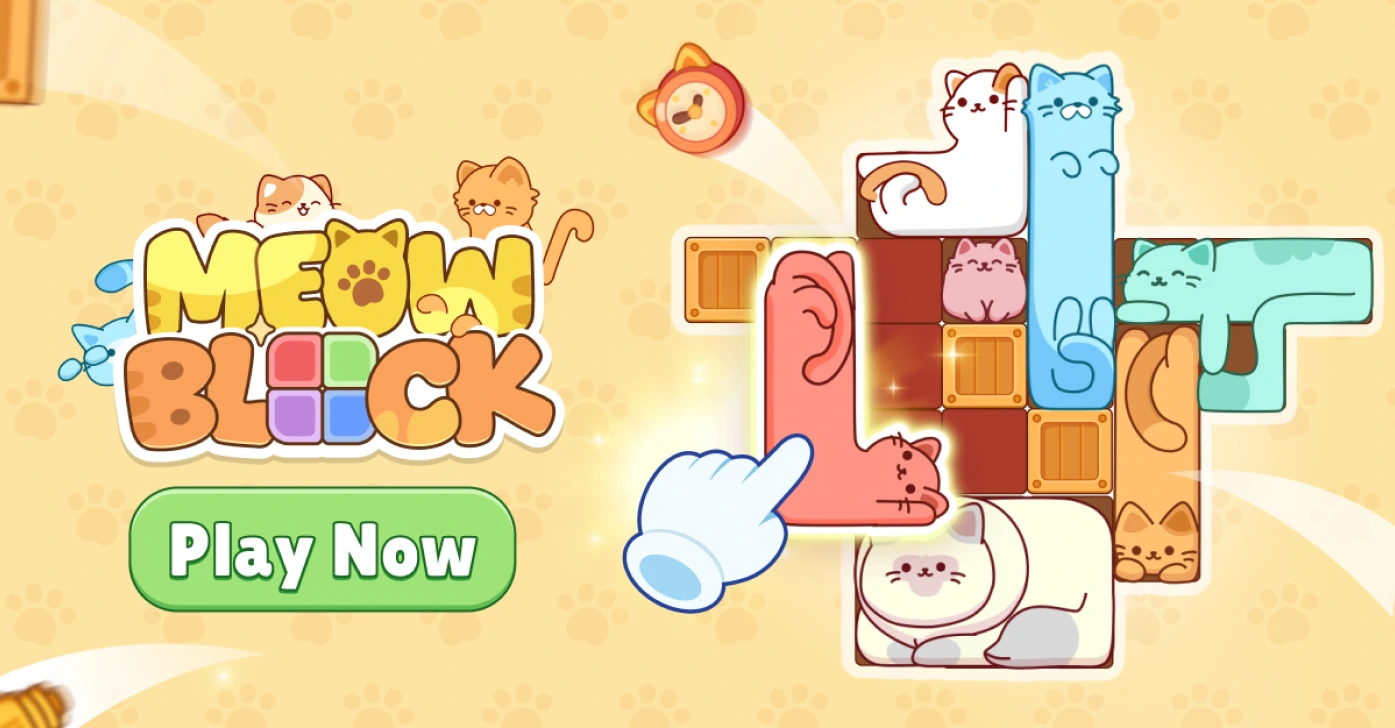
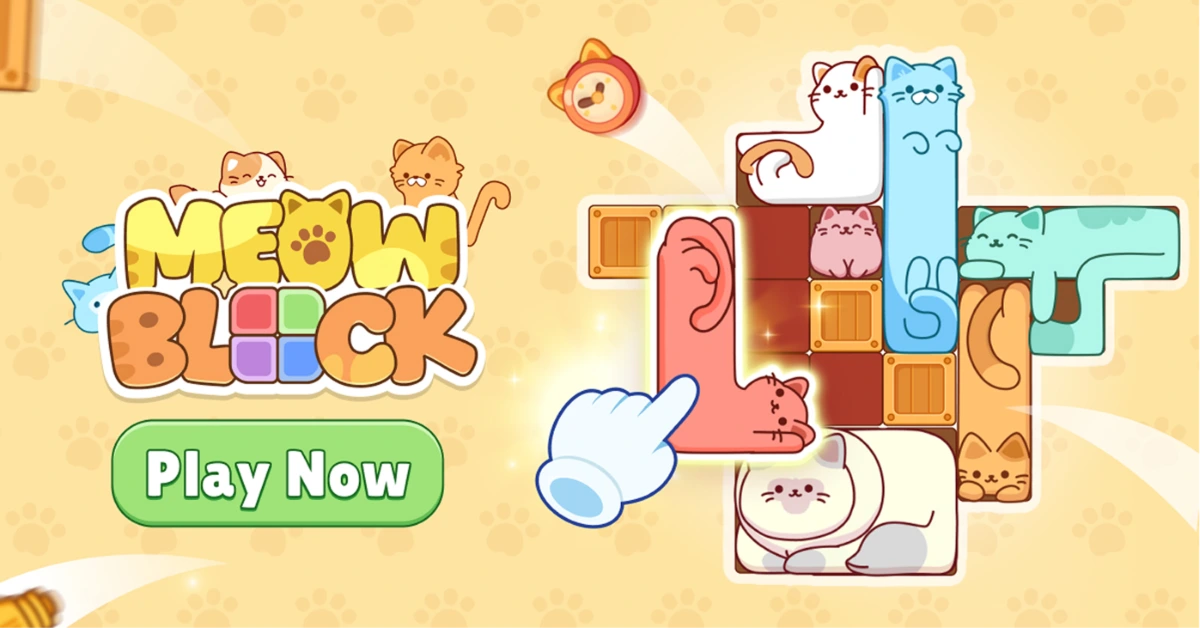
Oil Defense slides, two picture books, Spine feedback animations
- Re-cut Oil Defense from Figma into 14 whole slides
- Show the Meow Block Google banner at its native 1200x628
- Add Choo Choo Train Adventure and Where Is the Best Pho? with book mockups
- Play Icon Match combo feedback animations live with Spine Player 4.3

diff --git a/app.js b/app.js
@@ -38,7 +38,7 @@
   function render(box, list, lead) {
     box.replaceChildren(...list.map((p, i) => el('a', { className: lead && !i ? 'tile lead-tile' : 'tile', href: '#' + p.id },
       el('span', { className: 'shot' },
-        el('img', { src: `${A}covers/${p.id}.webp?v=16`, alt: '', loading: 'lazy' }),
+        el('img', { src: `${A}covers/${p.id}.webp?v=20`, alt: '', loading: 'lazy' }),
         ...(p.award ? [el('span', { className: 'award', textContent: p.award })] : [])),
       el('span', { className: 'cap' },
         el('strong', {}, p.title + '\u00a0', el('i', { ariaHidden: 'true', innerHTML: '<svg viewBox="0 0 12 12" width=".62em" height=".62em"><path d="M3 9 9 3M4 3h5v5" fill="none" stroke="currentColor" stroke-width="2" stroke-linecap="round" stroke-linejoin="round"/></svg>' })), el('em', { textContent: p.year }),
@@ -72,8 +72,19 @@
   const vo = 'IntersectionObserver' in window && new IntersectionObserver(es => es.forEach(e => {
     if (e.isIntersecting) e.target.play().catch(() => {}); else e.target.pause();
   }), { rootMargin: '150px 0px' });
+  // Spine animations play live in the official Spine web player, loaded only when a project has one
+  let spineLib;
+  const spinePlayers = [];
+  const loadSpine = () => spineLib || (spineLib = new Promise((ok, no) => {
+    const base = 'https://cdn.jsdelivr.net/npm/@esotericsoftware/spine-player@4.3.12/dist/';
+    document.head.append(el('link', { rel: 'stylesheet', href: base + 'spine-player.css' }));
+    const s = el('script', { src: base + 'iife/spine-player.min.js' });
+    s.onload = () => ok(window.spine); s.onerror = () => { spineLib = null; no(); };
+    document.head.append(s);
+  }));
   let cur = -1, back = 0;
   function show() {
+    spinePlayers.splice(0).forEach(x => { try { x.dispose(); } catch (e) {} }); // free each WebGL canvas
     cur = all.findIndex(p => '#' + p.id === location.hash);
     if (cur < 0) { if (v.open) { v.close(); scrollTo({ top: back, behavior: 'instant' }); } return; }
     const p = all[cur];
@@ -86,6 +97,31 @@
       el('a', { href, target: '_blank', rel: 'noopener', textContent: t + ' ' }, el('i', { ariaHidden: 'true', innerHTML: '<svg viewBox="0 0 12 12" width=".8em" height=".8em"><path d="M3 9 9 3M4 3h5v5" fill="none" stroke="currentColor" stroke-width="2" stroke-linecap="round" stroke-linejoin="round"/></svg>' }))))] : [];
     const item =([f, w, h, alpha, c]) => {
       if (!f) return el('span', { className: 'spacer' }); // empty slot that keeps a lone image small
+      if (f.startsWith('spine:')) {
+        // 'spine:folder:anim1,anim2' plays folder/skeleton.json; several animations play one after another
+        // an optional 4th part 'x,y,w,h' frames the animation tighter than its full bounds (skeleton units)
+        const [, dir, anims, frame] = f.split(':'), list = anims.split(',');
+        const [vx, vy, vw, vh] = frame ? frame.split(',').map(Number) : [];
+        const pad = frame ? '0%' : '8%';
+        const box = el('div', { className: 'spine', role: 'img', ariaLabel: `${p.title} Spine animation` });
+        box.style.aspectRatio = `${w}/${h}`;
+        loadSpine().then(spine => {
+          if (!box.isConnected) return;
+          spinePlayers.push(new spine.SpinePlayer(box, {
+            skeleton: `${A}projects/${dir}/skeleton.json`, atlas: `${A}projects/${dir}/skeleton.atlas`,
+            animation: list[0], showControls: false, alpha: true, backgroundColor: '#00000000', premultipliedAlpha: false,
+            viewport: { ...(frame ? { x: vx, y: vy, width: vw, height: vh } : {}), padLeft: pad, padRight: pad, padTop: pad, padBottom: pad },
+            success: pl => {
+              if (list.length < 2) return;
+              const st = pl.animationState, run = () => { st.setAnimation(0, list[0], false); list.slice(1).forEach(a => st.addAnimation(0, a, false, 0)); };
+              st.addListener({ complete: e => { if (e.animation.name === list[list.length - 1]) run(); } });
+              run();
+            },
+            error: () => { box.textContent = ''; },
+          }));
+        }).catch(() => {});
+        return box;
+      }
       if (c) {
         // a w×h window cut from sheets stacked top to bottom (see crop() in projects.js)
         const box = el('span', { className: 'crop', role: 'img', ariaLabel: `${p.title} artwork` });
@@ -95,8 +131,8 @@
         box.append(inner);
         return box;
       }
-      // ?v=2: artwork re-exported sharp from Figma, so browsers drop the old cached files
-      const src = `${A}projects/${f}` + (f.endsWith('.webp') ? '?v=2' : '');
+      // ?v=6: artwork re-exported sharp from Figma, so browsers drop the old cached files
+      const src = `${A}projects/${f}` + (f.endsWith('.webp') ? '?v=6' : '');
       if (f.endsWith('.mp4')) {
         // play only while on screen, so a project with many clips stays light
         const n = el('video', { src, width: w, height: h, muted: true, loop: true, controls: still, playsInline: true, preload: 'metadata' });

diff --git a/projects.js b/projects.js
@@ -21,13 +21,20 @@ const PROJECTS = [
     desc: "Made for the company Game Jam 2026. I worked on the game design and led the art direction: level ideas, UI, weapon items, backgrounds and visual direction. The logo was generated with AI; every other asset was illustrated by hand.",
     links: [["Play on itch.io", "https://weedlly.itch.io/oil-keeper-td"]],
     media: [
-      ["oil-defense/01.webp", 1921, 1083],
-      ["oil-defense/02.webp", 1915, 2332],
-      ["oil-defense/03.webp", 1921, 2340],
-      ["oil-defense/04.webp", 1921, 2339],
-      ["oil-defense/05.webp", 1921, 2340],
-      ["oil-defense/06.webp", 1921, 2338],
-      ["oil-defense/07.webp", 1910, 2326],
+      ["oil-defense/01.webp", 1920, 1079],
+      ["oil-defense/02.webp", 1920, 1079],
+      ["oil-defense/03.webp", 1920, 1079],
+      ["oil-defense/04.webp", 1920, 1079],
+      ["oil-defense/05.webp", 1920, 1079],
+      ["oil-defense/06.webp", 1920, 1079],
+      ["oil-defense/07.webp", 1920, 1079],
+      ["oil-defense/08.webp", 1920, 1079],
+      ["oil-defense/09.webp", 1920, 1079],
+      ["oil-defense/10.webp", 1920, 1079],
+      ["oil-defense/11.webp", 1920, 1079],
+      ["oil-defense/12.webp", 1920, 1079],
+      ["oil-defense/13.webp", 1920, 1079],
+      ["oil-defense/14.webp", 1920, 1079],
     ],
   },
   {
@@ -46,7 +53,7 @@ const PROJECTS = [
       ["Game UI", [[["meow-block/c02.webp", 2400, 3327]]]],
       ["Fake screens", [[["meow-block/c03.webp", 687, 1222], ["meow-block/c04.webp", 687, 1222], ["meow-block/c05.webp", 687, 1225],
         ["meow-block/c06.webp", 696, 1239], ["meow-block/c07.webp", 696, 1239], ["meow-block/c08.webp", 696, 1239]]]],
-      ["UA creatives", [[["meow-block/c09.webp", 1395, 728], ["meow-block/c10.webp", 1398, 1743]], [["meow-block/c11.webp", 2400, 625]]]],
+      ["UA creatives", [[["meow-block/c09.webp", 1200, 628], ["meow-block/c10.webp", 1398, 1743]], [["meow-block/c11.webp", 2400, 625]]]],
     ],
   },
   {
@@ -135,6 +142,11 @@ const PROJECTS = [
     desc: "Character, prop, world map and popup animations rigged in Spine 2D, plus shop and character effects set up in Unity.",
     sections: [
       ["Characters", [[["motion/m01.mp4", 1280, 720], ["motion/m02.mp4", 638, 638]]]],
+      // live Spine 4.3 animations: "spine:<folder in assets/projects>:<animation names>[:x,y,w,h frame]"
+      ["Icon Match: combo feedback", [
+        [["spine:motion/spine/good:anim-02:-628,-158,1118,297", 1200, 400], ["spine:motion/spine/great:anim-02:-628,-140,1118,282", 1200, 400]],
+        [["spine:motion/spine/genius:anim-02:-715,-162,1419,302", 1200, 400], ["spine:motion/spine/unbelievable:anim-03-2s:-822,-162,1663,359", 1200, 400]],
+      ], { note: "Combo feedback words animated in Spine 2D. These play live in the browser from the Spine export." }],
       ["World maps and popups", [[["motion/m09.mp4", 1280, 590]], [["motion/m10.mp4", 1170, 540], ["motion/m11.mp4", 1170, 540]], [["motion/m12.mp4", 1000, 750], ["motion/m13.mp4", 1000, 750]], [["motion/m08.mp4", 1280, 646]]]],
       ["Splash screen", [[["motion/m14.mp4", 1280, 716]]]],
       ["Unity VFX", [[["motion/m15.mp4", 1280, 822], ["motion/m16.mp4", 1280, 732]]]],
@@ -265,6 +277,41 @@ const PROJECTS = [
       ["fantasy-card-game/09.mp4", 1200, 848],
       ["fantasy-card-game/10.webp", 1200, 629],
       ["fantasy-card-game/11.webp", 1200, 492],
+    ],
+  },
+  {
+    id: "train-adventure",
+    type: "illustration",
+    year: 2022,
+    period: "2022",
+    title: "Choo Choo Train Adventure",
+    tags: ["Picture book"],
+    role: "Illustrator",
+    desc: "Chuyến xe lửa phiêu lưu. A bilingual picture book about a train journey.",
+    layout: "gap",
+    media: [
+      ["train-adventure/01.webp", 1448, 1086],
+      ["train-adventure/03.webp", 2400, 1214],
+      ["train-adventure/06.webp", 2400, 1214],
+      ["train-adventure/07.webp", 2400, 1214],
+    ],
+  },
+  {
+    id: "best-pho",
+    type: "illustration",
+    year: 2022,
+    period: "2022",
+    title: "Where Is the Best Phở?",
+    tags: ["Picture book"],
+    role: "Illustrator",
+    desc: "Phở ở đâu ngon tuyệt? A bilingual picture book about looking for the best bowl of phở.",
+    layout: "gap",
+    media: [
+      ["best-pho/01.webp", 1448, 1086],
+      ["best-pho/03.webp", 2400, 1214],
+      ["best-pho/04.webp", 2400, 1214],
+      ["best-pho/05.webp", 2400, 1214],
+      ["best-pho/06.webp", 2400, 1214],
     ],
   },
   {

diff --git a/index.html b/index.html
@@ -10,7 +10,7 @@
 <link rel="preconnect" href="https://fonts.googleapis.com">
 <link rel="preconnect" href="https://fonts.gstatic.com" crossorigin>
 <link rel="stylesheet" href="https://fonts.googleapis.com/css2?family=Be+Vietnam+Pro:wght@400;600&family=Fraunces:opsz,wght,SOFT,WONK@9..144,600..900,100,0&family=JetBrains+Mono:wght@400&display=swap">
-<link rel="stylesheet" href="style.css?v=20">
+<link rel="stylesheet" href="style.css?v=21">
 </head>
 <body>
 <a class="skip" href="#games">Skip to work</a>
@@ -145,8 +145,8 @@
   <p class="z-hint mono">Click the image to see it full width</p>
 </dialog>
 <noscript><p class="wrap">Please turn on JavaScript to see the projects, or visit behance.net/quynhdiemng.</p></noscript>
-<script src="projects.js?v=18"></script>
-<script src="app.js?v=20"></script>
+<script src="projects.js?v=27"></script>
+<script src="app.js?v=29"></script>
 <script src="motion.js?v=16"></script>
 </body>
 </html>

diff --git a/style.css b/style.css
@@ -175,6 +175,8 @@ dialog::backdrop{background:var(--deep)}
 .row>*{flex:var(--a) 1 0;min-width:0;width:100%;height:auto;border-radius:6px;background:var(--deep)}
 .row>.alpha{background:color-mix(in srgb,var(--bg) 82%,var(--green));padding:5% 7%;object-fit:contain}
 .row>.spacer{background:none}
+.row>.spine{position:relative;overflow:hidden}
+.spine .spine-player{background:none!important}
 .crop{position:relative;display:block;overflow:hidden}
 .crop>span{position:absolute;display:block}
 .crop img{width:100%;height:auto}
